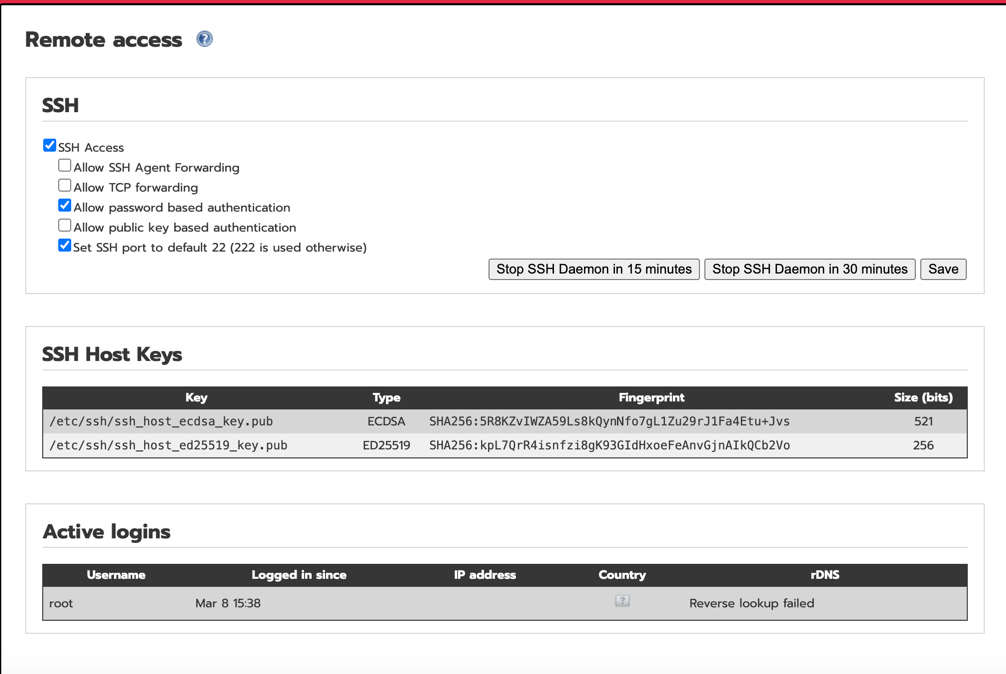
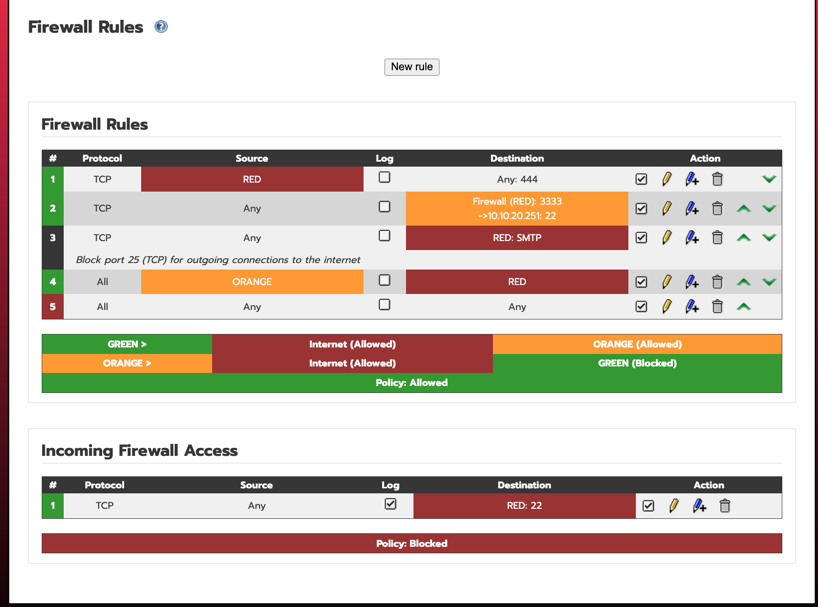
infra-2: fw ssh 연결 방화벽 수정

diff --git a/fw-dmz-fw-sz-study/vms/ext-dmz-bastion/README.md b/fw-dmz-fw-sz-study/vms/ext-dmz-bastion/README.md
@@ -17,6 +17,8 @@
 sudo hostnamectl set-hostname ext-dmz-bastion
 ```
 
+## ssh 설정 참고
+- [ssh 설정가이드](./ssh/README.md)
 
 
   

diff --git a/fw-dmz-fw-sz-study/vms/ext-fw1/README.md b/fw-dmz-fw-sz-study/vms/ext-fw1/README.md
@@ -1,6 +1,6 @@
 # EXT-FW1
 ## 네트워크
-- NAT (10.10.1.2)\
+- NAT (10.10.1.3)\
   RED
 - FW HOST-ONLY (10.10.10.2)\
   GREEN
